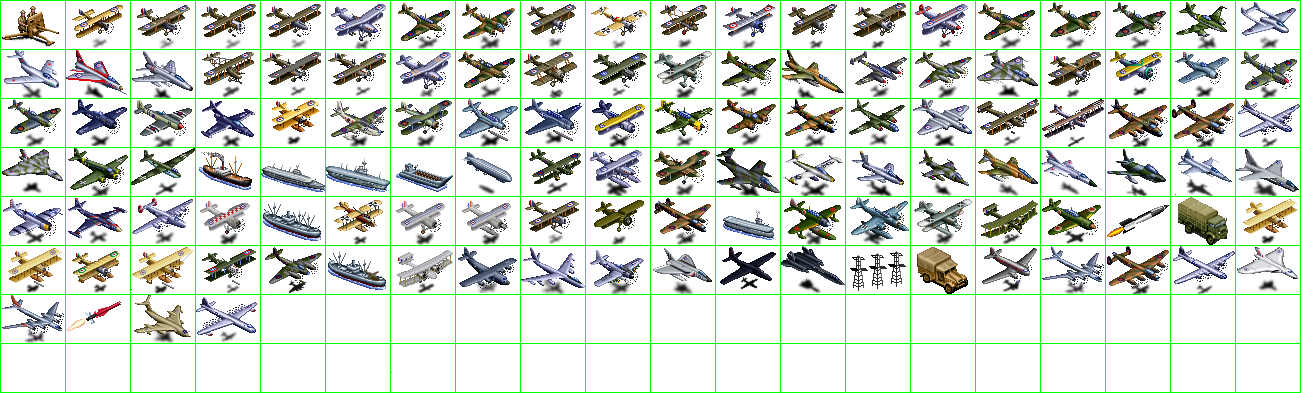
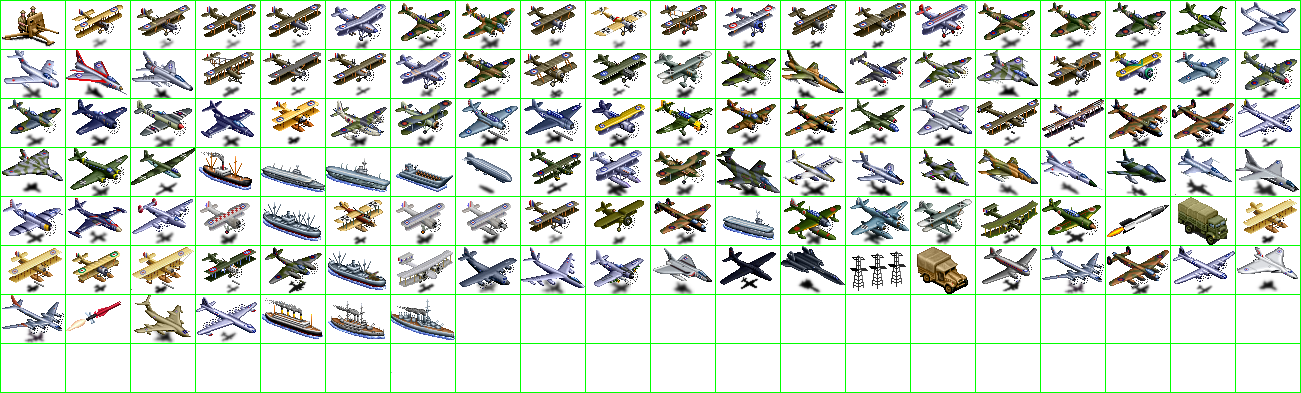
New ships and related gubbins
Battleships bring warfare to the sea surface.  Troopships allow moving
 heavy units between cities (and are faster than the lcmboat).
The related techs connect to a few existing things and a new building
 Power Station.

Changed region(s): [[0.1845, 0.7634, 0.3689, 0.8855]]

diff --git a/aviation/makeunits.py b/aviation/makeunits.py
@@ -46,6 +46,7 @@ class Unit(object):
             targets.add('"Assault"')
         if '"AntiSea"' in self.flags:
             targets.add('"Sea"')
+            targets.add('"Ship"')
             if self['class'] in air_classes:
                 self.flags += ', "AirAttacker"'
                 targets.add('"Naval Fighter"')
